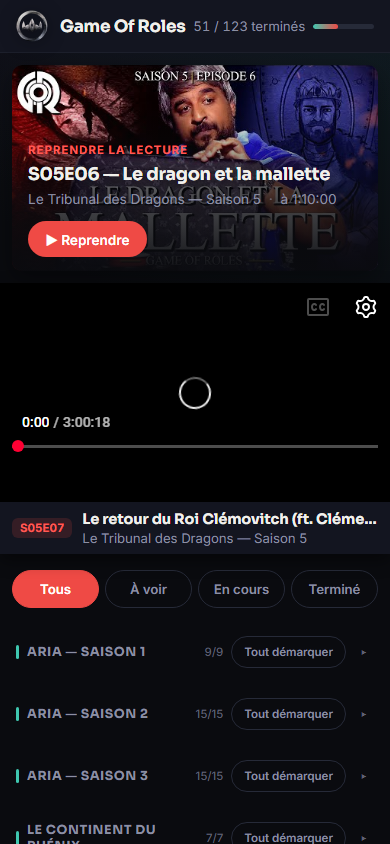
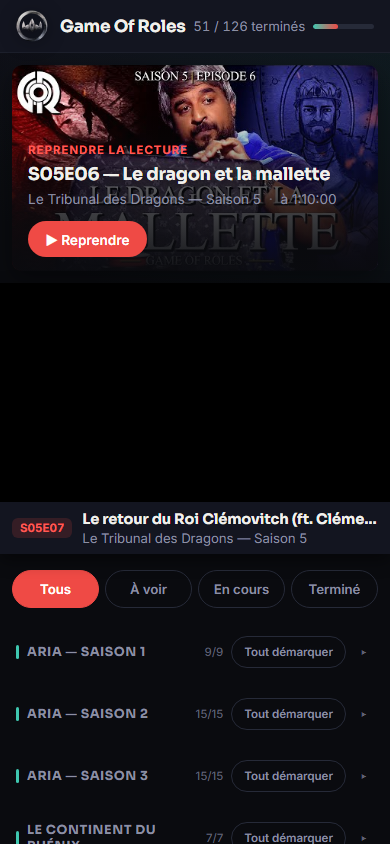
v1.6 : les récaps rejoignent la série à leur place
Les 3 récaps (résumé de la saison 5, de la saison 6, grand récap de
mi-saison de Sheol) quittent la section Hors-série pour rejoindre leur arc,
au bon endroit chronologique (code RÉCAP). Total de la série : 126 épisodes,
15 hors-série (crossovers et spéciaux). README et captures mis à jour.

diff --git a/episodes.js b/episodes.js
@@ -81,6 +81,7 @@ const GOR_EPISODES = [
   { arc: "Le Tribunal des Dragons — Saison 5", id: "xGTCgFs_Sbc", code: "S05E09", title: "Evy et ses démons", date: "2021-06-02" },
   { arc: "Le Tribunal des Dragons — Saison 5", id: "lFMAMPscH4A", code: "S05E10", title: "Pacte avec le diable", date: "2021-06-16" },
   { arc: "Le Tribunal des Dragons — Saison 5", id: "TVgDifiYdz8", code: "S05E11", title: "Le temple du destin (avec MADOXR)", date: "2021-06-30" },
+  { arc: "Le Tribunal des Dragons — Saison 5", id: "eIPM5qAeIp8", code: "RÉCAP", title: "Résumé de la saison 5", date: "2021-09-01" },
 
   // ---- Le Tribunal des Dragons — Saison 6 (2021-2022) ----
   { arc: "Le Tribunal des Dragons — Saison 6", id: "V3NDS4OG9W0", code: "S06E01", title: "Raoul prend le pouvoir", date: "2021-09-02" },
@@ -93,6 +94,7 @@ const GOR_EPISODES = [
   { arc: "Le Tribunal des Dragons — Saison 6", id: "9wSoWcT1s90", code: "S06E08", title: "Le jeu des perles de verre", date: "2021-12-09" },
   { arc: "Le Tribunal des Dragons — Saison 6", id: "v9mLbZxmKGo", code: "S06E09", title: "Pharaon contre pharaon", date: "2022-01-13" },
   { arc: "Le Tribunal des Dragons — Saison 6", id: "N_8BkPbmz40", code: "S06E10", title: "Good versus Evyl", date: "2022-01-25" },
+  { arc: "Le Tribunal des Dragons — Saison 6", id: "CWIKjApgsTs", code: "RÉCAP", title: "Résumé de la saison 6", date: "2022-10-05" },
 
   // ---- Justice (mini-série, 2022) ----
   { arc: "Justice", id: "jZ8YnxPZkV8", code: "EP01", title: "Le braquage", date: "2022-04-20" },
@@ -146,6 +148,7 @@ const GOR_EPISODES = [
   { arc: "Sheol", id: "WMztw18LGPg", code: "EP11", title: "Le titan du temps", date: "2025-06-25" },
   { arc: "Sheol", id: "1t7RsKHyvaQ", code: "EP12", title: "Massage funeste", date: "2025-09-03" },
   { arc: "Sheol", id: "QLRI0iJTrkM", code: "EP13", title: "Enquête et échec", date: "2025-09-17" },
+  { arc: "Sheol", id: "Aiboql3MuI4", code: "RÉCAP", title: "Le grand récap (mi-saison)", date: "2025-10-07" },
   { arc: "Sheol", id: "QImyBoHpFos", code: "EP14", title: "Le prince de la night", date: "2025-10-08" },
   { arc: "Sheol", id: "H_eKztZa3qc", code: "EP15", title: "L'île mystérieuse", date: "2025-10-22" },
   { arc: "Sheol", id: "VsHEzYUJInM", code: "EP16", title: "Retour vers Aria", date: "2025-11-05" },
@@ -164,25 +167,22 @@ const GOR_EPISODES = [
   // ---- Odyssée (en cours — 2026) ----
   { arc: "Odyssée", id: "jKtBmDHAJa8", code: "EP01", title: "L'Ascension", date: "2026-09-16" },
 
-  // ---- Hors-série : crossovers, spéciaux et récaps, hors trame principale ----
+  // ---- Hors-série : crossovers et spéciaux, hors trame principale ----
   // Volontairement à part (voir README) : pas nécessaires pour suivre l'histoire,
   // mais sympas à rattraper à l'occasion. Non comptés dans la progression globale.
-  { arc: "Hors-série", bonus: true, id: "eIPM5qAeIp8", code: "HS01", title: "Résumé de la saison 5", date: "2021-09-01" },
-  { arc: "Hors-série", bonus: true, id: "l5HIQOHuFiM", code: "HS02", title: "Les mondes du futur (Festival Frames)", date: "2022-09-15" },
-  { arc: "Hors-série", bonus: true, id: "991cryrnmgE", code: "HS03", title: "Le naufrage de l'Erika (ft. AlphaCast, Angle Droit, Ultia — ZEvent 2022)", date: "2022-09-21" },
-  { arc: "Hors-série", bonus: true, id: "CWIKjApgsTs", code: "HS04", title: "Résumé de la saison 6", date: "2022-10-05" },
-  { arc: "Hors-série", bonus: true, id: "PiwVAQzPILQ", code: "HS05", title: "x World of Warcraft: Dragonflight (ft. Joueur du Grenier & ZeratoR)", date: "2022-11-28" },
-  { arc: "Hors-série", bonus: true, id: "rSC6tDu6JZ0", code: "HS06", title: "x Betrayal at the House on the Hill (ft. Angle Droit, Étoiles, Ultia)", date: "2022-12-06" },
-  { arc: "Hors-série", bonus: true, id: "P3vKSXwND5o", code: "HS07", title: "x Django (ft. MisterV & Baghera Jones)", date: "2023-03-03" },
-  { arc: "Hors-série", bonus: true, id: "PnEbrAYRlkQ", code: "HS08", title: "x Genshin Impact (ft. DamDamLive)", date: "2023-04-27" },
-  { arc: "Hors-série", bonus: true, id: "M8qMavhOuWM", code: "HS09", title: "x Polymanga : Shōnen Suisse (ft. Baghera Jones)", date: "2023-05-08" },
-  { arc: "Hors-série", bonus: true, id: "5orfpgJWd8o", code: "HS10", title: "Soirée enquête", date: "2023-07-03" },
-  { arc: "Hors-série", bonus: true, id: "0Y6PYBlypDM", code: "HS11", title: "Dégâts des autres (ft. Baghera Jones & Ponce)", date: "2023-07-06" },
-  { arc: "Hors-série", bonus: true, id: "FUYtUZzXgLU", code: "HS12", title: "x World of Warcraft: The War Within (ft. Baghera Jones, Cyprien, JDG, ZeratoR)", date: "2024-08-26" },
-  { arc: "Hors-série", bonus: true, id: "th8C0vmLMJQ", code: "HS13", title: "Île sous haute tension (x RTE, ft. Monsieur Bidouille)", date: "2024-10-21" },
-  { arc: "Hors-série", bonus: true, id: "WHh2sytU820", code: "HS14", title: "Agents du paranormal (x Unknown 9: Awakening, ft. Natoo)", date: "2024-10-26" },
-  { arc: "Hors-série", bonus: true, id: "Ik1UkR-N0Pw", code: "HS15", title: "x Musée Guimet", date: "2024-11-28" },
-  { arc: "Hors-série", bonus: true, id: "qgMmgUks1dY", code: "HS16", title: "Le complot impérial (x Musée Guimet)", date: "2025-01-28" },
-  { arc: "Hors-série", bonus: true, id: "Aiboql3MuI4", code: "HS17", title: "Le grand récap (mi-saison Sheol)", date: "2025-10-07" },
-  { arc: "Hors-série", bonus: true, id: "zhMcM-ZJncU", code: "HS18", title: "Elder Quest (ft. Pressea)", date: "2026-04-21" },
+  { arc: "Hors-série", bonus: true, id: "l5HIQOHuFiM", code: "HS01", title: "Les mondes du futur (Festival Frames)", date: "2022-09-15" },
+  { arc: "Hors-série", bonus: true, id: "991cryrnmgE", code: "HS02", title: "Le naufrage de l'Erika (ft. AlphaCast, Angle Droit, Ultia — ZEvent 2022)", date: "2022-09-21" },
+  { arc: "Hors-série", bonus: true, id: "PiwVAQzPILQ", code: "HS03", title: "x World of Warcraft: Dragonflight (ft. Joueur du Grenier & ZeratoR)", date: "2022-11-28" },
+  { arc: "Hors-série", bonus: true, id: "rSC6tDu6JZ0", code: "HS04", title: "x Betrayal at the House on the Hill (ft. Angle Droit, Étoiles, Ultia)", date: "2022-12-06" },
+  { arc: "Hors-série", bonus: true, id: "P3vKSXwND5o", code: "HS05", title: "x Django (ft. MisterV & Baghera Jones)", date: "2023-03-03" },
+  { arc: "Hors-série", bonus: true, id: "PnEbrAYRlkQ", code: "HS06", title: "x Genshin Impact (ft. DamDamLive)", date: "2023-04-27" },
+  { arc: "Hors-série", bonus: true, id: "M8qMavhOuWM", code: "HS07", title: "x Polymanga : Shōnen Suisse (ft. Baghera Jones)", date: "2023-05-08" },
+  { arc: "Hors-série", bonus: true, id: "5orfpgJWd8o", code: "HS08", title: "Soirée enquête", date: "2023-07-03" },
+  { arc: "Hors-série", bonus: true, id: "0Y6PYBlypDM", code: "HS09", title: "Dégâts des autres (ft. Baghera Jones & Ponce)", date: "2023-07-06" },
+  { arc: "Hors-série", bonus: true, id: "FUYtUZzXgLU", code: "HS10", title: "x World of Warcraft: The War Within (ft. Baghera Jones, Cyprien, JDG, ZeratoR)", date: "2024-08-26" },
+  { arc: "Hors-série", bonus: true, id: "th8C0vmLMJQ", code: "HS11", title: "Île sous haute tension (x RTE, ft. Monsieur Bidouille)", date: "2024-10-21" },
+  { arc: "Hors-série", bonus: true, id: "WHh2sytU820", code: "HS12", title: "Agents du paranormal (x Unknown 9: Awakening, ft. Natoo)", date: "2024-10-26" },
+  { arc: "Hors-série", bonus: true, id: "Ik1UkR-N0Pw", code: "HS13", title: "x Musée Guimet", date: "2024-11-28" },
+  { arc: "Hors-série", bonus: true, id: "qgMmgUks1dY", code: "HS14", title: "Le complot impérial (x Musée Guimet)", date: "2025-01-28" },
+  { arc: "Hors-série", bonus: true, id: "zhMcM-ZJncU", code: "HS15", title: "Elder Quest (ft. Pressea)", date: "2026-04-21" },
 ];

diff --git a/app.js b/app.js
@@ -293,7 +293,7 @@
       if (isBonus) {
         const subtitle = document.createElement("span");
         subtitle.className = "arc-subtitle";
-        subtitle.textContent = "crossovers, spéciaux & récaps — hors trame principale";
+        subtitle.textContent = "crossovers et spéciaux — hors trame principale";
         titleEl.appendChild(subtitle);
       }
       const countEl = document.createElement("span");

diff --git a/README.md b/README.md
@@ -16,7 +16,7 @@ chronologique de l'histoire, et retient automatiquement la position de lecture.
 ## Fonctionnalités
 
 **Suivi de visionnage**
-- **141 épisodes** dans l'ordre chronologique (2018 → aujourd'hui), groupés par arc :
+- **141 épisodes** (126 dans la série, récaps inclus, + 15 hors-série) dans l'ordre chronologique (2018 → aujourd'hui), groupés par arc :
   Aria (S1–S3), Le Continent du Phénix, Le Tribunal des Dragons (S5–S7), Justice,
   Galaxies, Valenthia, Sheol, Justice 1937, Odyssée.
 - **Lecteur YouTube intégré** : la position est sauvegardée toutes les 5 secondes.
@@ -24,7 +24,7 @@ chronologique de l'histoire, et retient automatiquement la position de lecture.
 - **Épisode terminé automatiquement** à 95 % de visionnage.
 - **Marquage manuel « vu »** : une case par épisode, et « Tout marquer vu » par saison pour rattraper ce qu'on a déjà regardé ailleurs.
 - **Filtres** Tous / À voir / En cours / Terminé, sections repliables avec compteur (`9/15`) et progression globale dans l'en-tête.
-- **Section « Hors-série »** à part (crossovers, spéciaux, récaps) : suivie comme le reste, mais non comptée dans la progression de la trame principale.
+- **Section « Hors-série »** à part (crossovers et spéciaux) : suivie comme le reste, mais non comptée dans la progression de la trame principale.
 - **Export / import de la progression** (fichier JSON) : pour sauvegarder, ou changer de téléphone / passer du navigateur à l'app. L'import **fusionne** avec la progression actuelle (un épisode terminé l'emporte, sinon la position la plus récente), sans rien supprimer, et ignore les fichiers invalides ou les épisodes inconnus.
 - **100 % local** : la progression est stockée dans le navigateur ou l'app, aucun compte, aucun serveur.
 
@@ -88,9 +88,9 @@ ou `youtu.be/`), le code, le titre et la date. Pour un hors-série, ajouter
 Prérequis : JDK 17 et SDK Android (platform 34, build-tools 34.0.0) dans `~/android-build`.
 
 ```bash
-echo "1.6 7" > android/version      # nom de version, code de version
+echo "1.7 8" > android/version      # nom de version, code de version
 ./build-apk.sh                        # → dist/GameOfRoles.apk
-gh release create v1.6 dist/GameOfRoles.apk
+gh release create v1.7 dist/GameOfRoles.apk
 ```
 
 L'APK est signé avec `~/android-build/gor.keystore` (créée au premier build).
